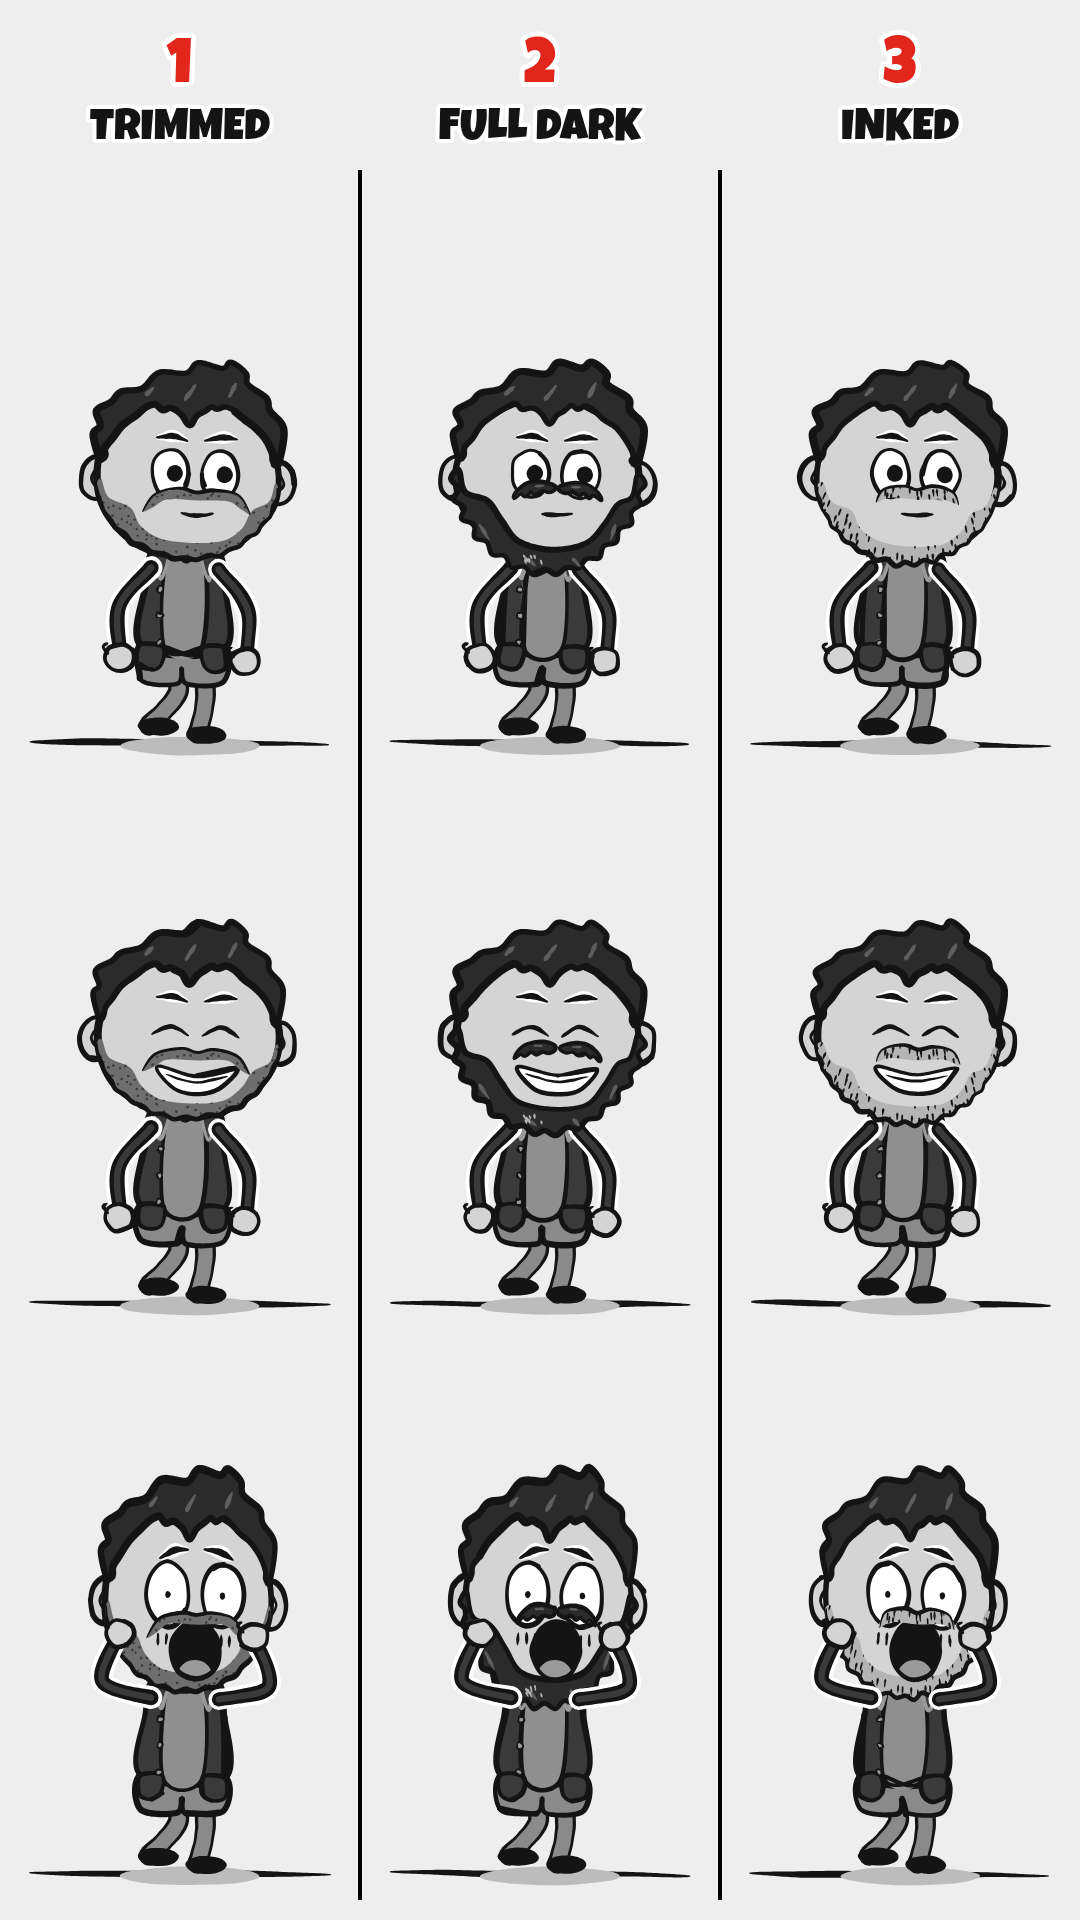
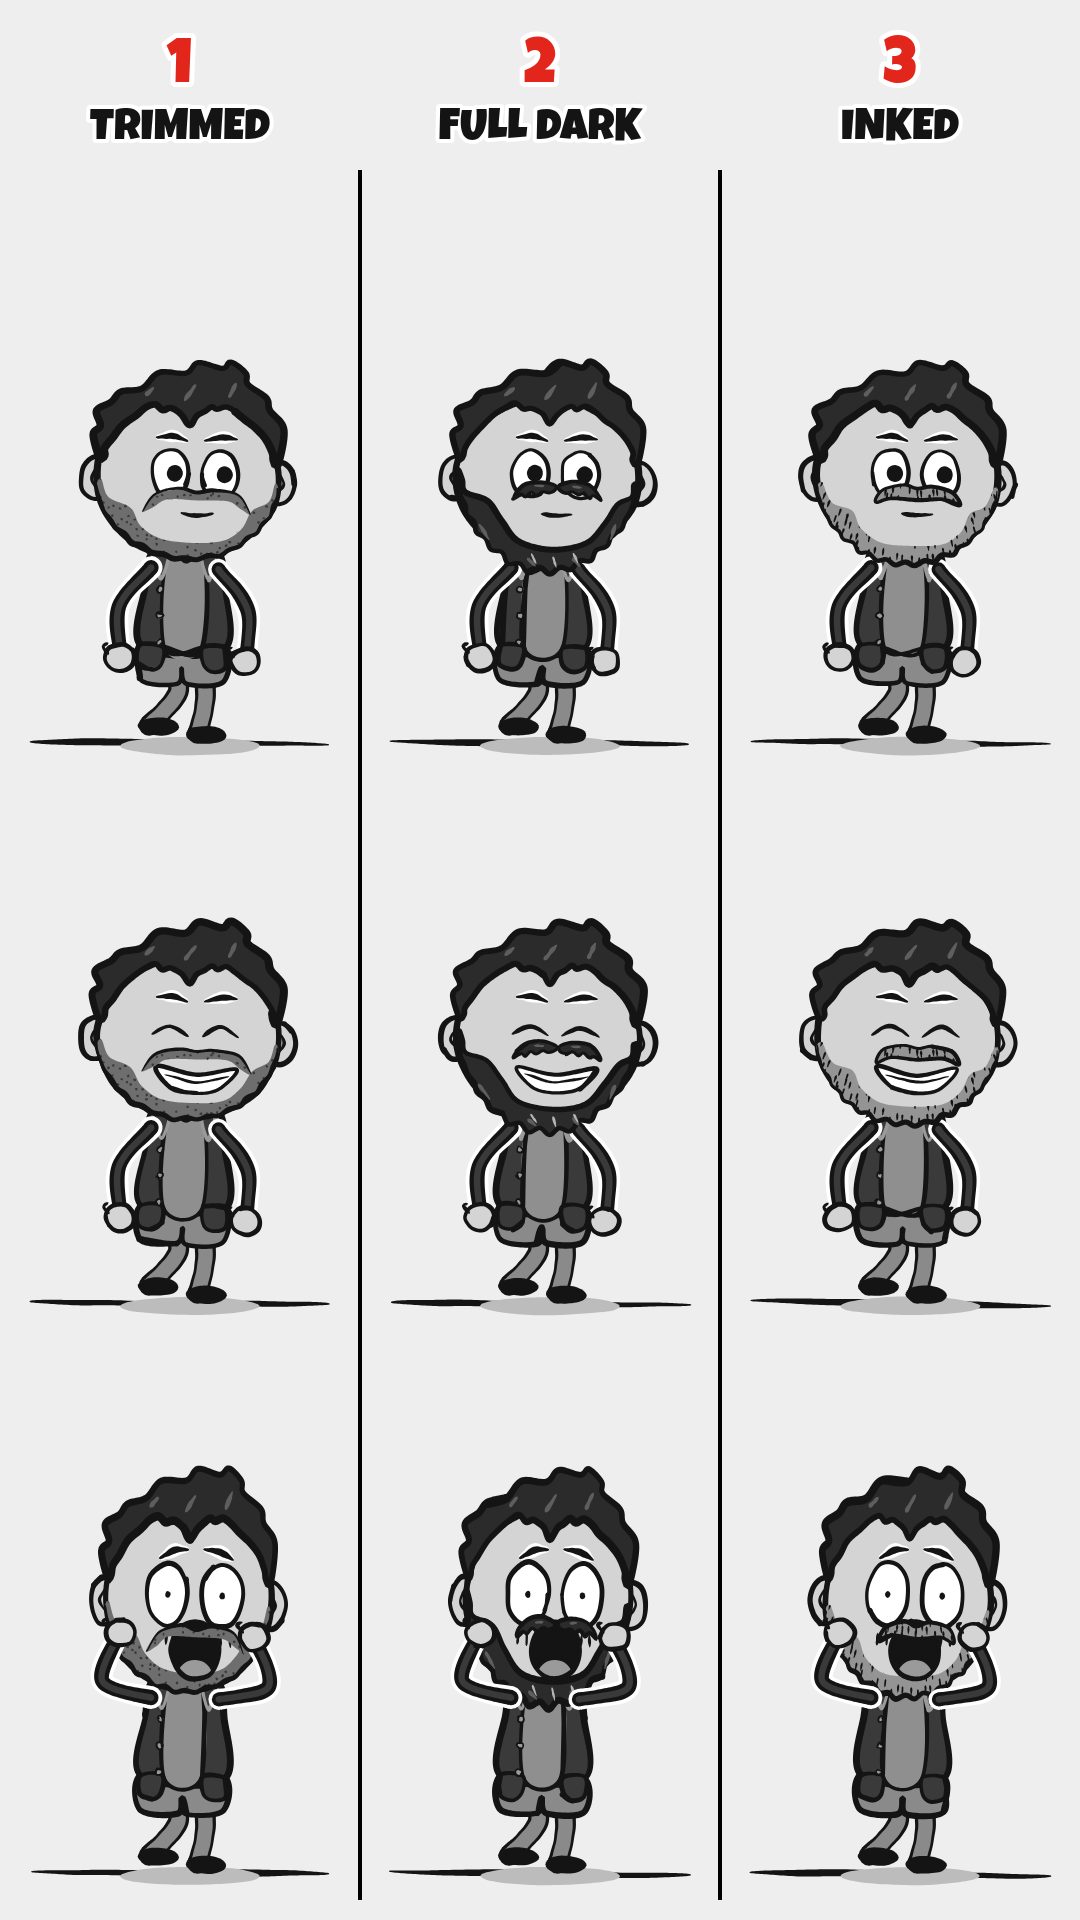
Squeex beard options: review round 1 fixes
Moustaches drop over a shocked gape, clear of the big eyes; the full dark
beard stays inside the cheeks with its bulk under the chin; longer grey
hairs; the inked beard is a shade darker so it reads against the skin.
head() now passes the pose to front() (no other character uses it).

Claude-Session: https://claude.ai/code/session_01RKmGcx8q1V1rbfKyx6bNrn

diff --git a/web/cameos.js b/web/cameos.js
@@ -81,7 +81,7 @@ const Cameos = (() => {
       } else brows(ctx, fx, -62, p, 1, o.browW ?? 9, true);
       if (rage) mouth(ctx, fx + 4, 34 + jaw * 0.2, p, 0.95);   // fills the lower half of the face
       else mouth(ctx, fx + 4, 62 - 18 * open + jaw * 0.5, p, (open ? 0.85 : 1) * (p.mouthScale ?? 1));
-      o.front?.(ctx, fx, rage);
+      o.front?.(ctx, fx, rage, p);
       o.hat?.(ctx);
       if (p.sweat) { sweat(ctx, -126, -30); sweat(ctx, 150, -60, 0.8); }
       ctx.restore();
@@ -1202,6 +1202,10 @@ const Cameos = (() => {
     return [Math.cos(a) * r, Math.sin(a) * (r + full * dn * dn)];
   });
 
+  // how far a moustache moves up: over rage's huge mouth it rides up; on a shocked gape the eyes are
+  // so big the moustache drops instead, over the top of the open mouth, clear of the eyes
+  const stacheLift = (rage, p) => rage ? 18 : p?.mouth === 'gape' ? -20 * (p.open ?? 0) : 0;
+
   // 1. Trimmed: mid-grey, stippled, a crisp cheek line; the moustache drops at
   // the corners to join the beard beside the mouth.
   const TRIM = '#6e6e6e', TRIM_DOT = '#3a3a3a';
@@ -1220,8 +1224,8 @@ const Cameos = (() => {
     ctx.save(); clipTo(ctx, sh); stipple(ctx, -RX, RX, 0, RY * 1.1, 0); ctx.restore();
     stroke(ctx, hu(jawEdge(1.0, 0.035)), { w: 9, taper0: 0.3, taper1: 0.3 });   // ink on the jaw side only
   };
-  const stacheTrim = (ctx, fx, rage) => {
-    const up = rage ? 18 : 0;
+  const stacheTrim = (ctx, fx, rage, p) => {
+    const up = stacheLift(rage, p);
     const m = [[fx - 84, 60], [fx - 62, 30], [fx - 22, 20], [fx + 4, 25], [fx + 32, 20], [fx + 70, 30], [fx + 90, 60],
                [fx + 74, 52], [fx + 52, 38], [fx + 4, 38], [fx - 44, 38], [fx - 66, 52]].map(([x, y]) => [x, y - up]);
     fill(ctx, m, TRIM, 1);
@@ -1234,10 +1238,11 @@ const Cameos = (() => {
   const fullOuter = () => {
     const pts = [];
     for (let i = 0; i <= 14; i++) {   // curl bumps, like the hair
-      const a = Math.PI * (-0.02 + 1.04 * i / 14), dn = Math.max(0, Math.sin(a));
-      for (const [f, r] of [[0, 1.0], [0.5, 1.07]]) {
+      const a = Math.PI * (0.02 + 1.0 * i / 14);
+      for (const f of [0, 0.5]) {
         if (i === 14 && f) break;
-        const aa = a + f * Math.PI * 1.04 / 14, d2 = Math.max(0, Math.sin(aa));
+        const aa = a + f * Math.PI * 1.0 / 14, d2 = Math.max(0, Math.sin(aa));
+        const r = 0.98 + (f ? 0.08 * d2 * d2 : 0);   // curls only below the cheeks, the sides stay on the head outline
         pts.push([Math.cos(aa) * r, Math.sin(aa) * (r + 0.16 * d2 * d2)]);
       }
     }
@@ -1245,22 +1250,21 @@ const Cameos = (() => {
   };
   const beardFull = ctx => {
     const outer = fullOuter();
-    const inner = [[-0.97, -0.04], [-0.9, 0.22], [-0.66, 0.32], [-0.5, 0.56], [-0.3, 0.82], [0.08, 0.9], [0.44, 0.82],
-                   [0.64, 0.56], [0.78, 0.32], [0.92, 0.22], [0.98, -0.04]];
+    const inner = [[-0.94, 0.06], [-0.9, 0.22], [-0.66, 0.32], [-0.5, 0.56], [-0.3, 0.82], [0.08, 0.9], [0.44, 0.82],
+                   [0.64, 0.56], [0.78, 0.32], [0.92, 0.22], [0.95, 0.06]];
     const sh = hu([...outer, ...inner]);
     fill(ctx, sh, SQ_HAIR, 1);
     outline(ctx, sh, { w: 9 });
     for (const [x0, y0, x1, y1] of [[-0.74, 0.6, -0.62, 0.8], [-0.2, 1.02, -0.1, 1.12], [0.3, 1.0, 0.38, 1.1], [0.76, 0.56, 0.7, 0.76]])
       stroke(ctx, hu([[x0, y0], [x1, y1]]), { w: 6, color: SQ_LINE, taper0: 0.2, taper1: 0.5 });
-    for (let i = 0; i < 7; i++) {   // salt in the pepper, at the chin
-      const x = -0.3 + 0.62 * hh(i + 610), y = 0.96 + 0.1 * hh(i + 640);
-      stroke(ctx, hu([[x, y], [x + 0.02, y + 0.06]]), { w: 3.5, color: '#b4b4b4', taper0: 0.2, taper1: 0.5 });
-    }
+    for (const [x0, y0, x1, y1] of [[-0.16, 0.96, -0.1, 1.08], [0.08, 0.98, 0.12, 1.12], [0.3, 0.94, 0.36, 1.06]])   // a few grey hairs in the chin
+      stroke(ctx, hu([[x0, y0], [x1, y1]]), { w: 4, color: '#b4b4b4', taper0: 0.2, taper1: 0.5 });
   };
+
   // two tapered halves parted in the middle, hair points along the bottom, well
   // clear of the lip, so the dark never reads as an outline round the mouth
-  const stacheFull = (ctx, fx, rage) => {
-    const up = rage ? 18 : 0;
+  const stacheFull = (ctx, fx, rage, p) => {
+    const up = stacheLift(rage, p);
     for (const sd of [-1, 1]) {
       const X = x => fx + 4 + sd * x;
       const h = [[X(4), 14], [X(26), 8], [X(50), 12], [X(66), 26], [X(70), 38], [X(58), 30], [X(52), 34], [X(42), 26],
@@ -1273,7 +1277,7 @@ const Cameos = (() => {
 
   // 3. Inked: a pale beard drawn mostly with short ink hatching, like a comic
   // panel; the hatching thickens toward the jaw.
-  const INKED = '#b4b4b4';
+  const INKED = '#949494';
   const hatch = (ctx, sh, x0, x1, y0, y1, dense, k0) => {
     ctx.save(); clipTo(ctx, sh);
     for (let y = y0; y < y1; y += 11) for (let x = x0; x < x1; x += 12) {
@@ -1292,13 +1296,13 @@ const Cameos = (() => {
     hatch(ctx, sh, -RX, RX, 0, RY * 1.12, (x, y) => Math.min(0.9, Math.max(0.15, (Math.hypot(x / RX, y / RY) - 0.6) * 2.2)), 0);
     stroke(ctx, hu(outer), { w: 8, taper0: 0.3, taper1: 0.3 });
   };
-  const stacheInked = (ctx, fx, rage) => {
-    const up = rage ? 18 : 0;
+  const stacheInked = (ctx, fx, rage, p) => {
+    const up = stacheLift(rage, p);
     const m = [[fx - 62, 44], [fx - 50, 22], [fx - 18, 14], [fx + 4, 20], [fx + 28, 14], [fx + 60, 22], [fx + 72, 44],
                [fx + 46, 36], [fx + 4, 38], [fx - 38, 36]].map(([x, y]) => [x, y - up]);
     fill(ctx, m, INKED, 1);
     hatch(ctx, m, fx - 70, fx + 80, 8 - up, 44 - up, () => 0.8, 91);
-    stroke(ctx, m.slice(0, 7), { w: 6, taper0: 0.4, taper1: 0.4 });
+    outline(ctx, m, { w: 6 });
   };
 
   // C, with any beard and moustache: everything else is the chosen draft C
